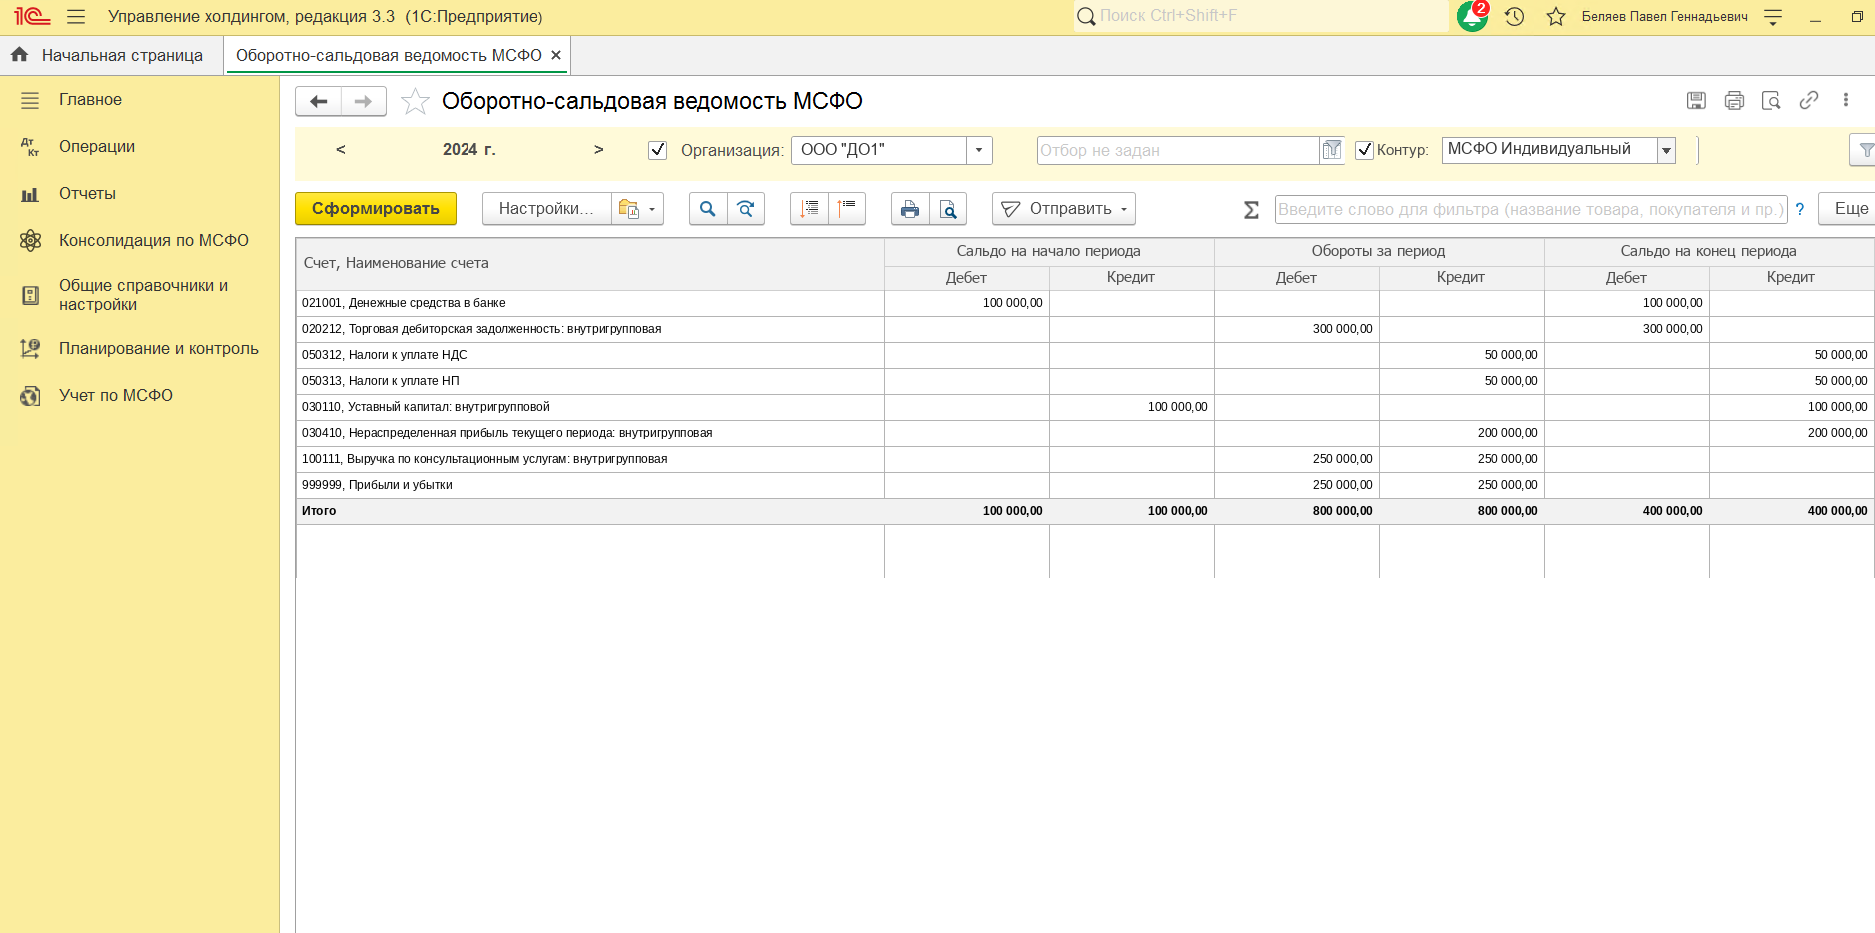
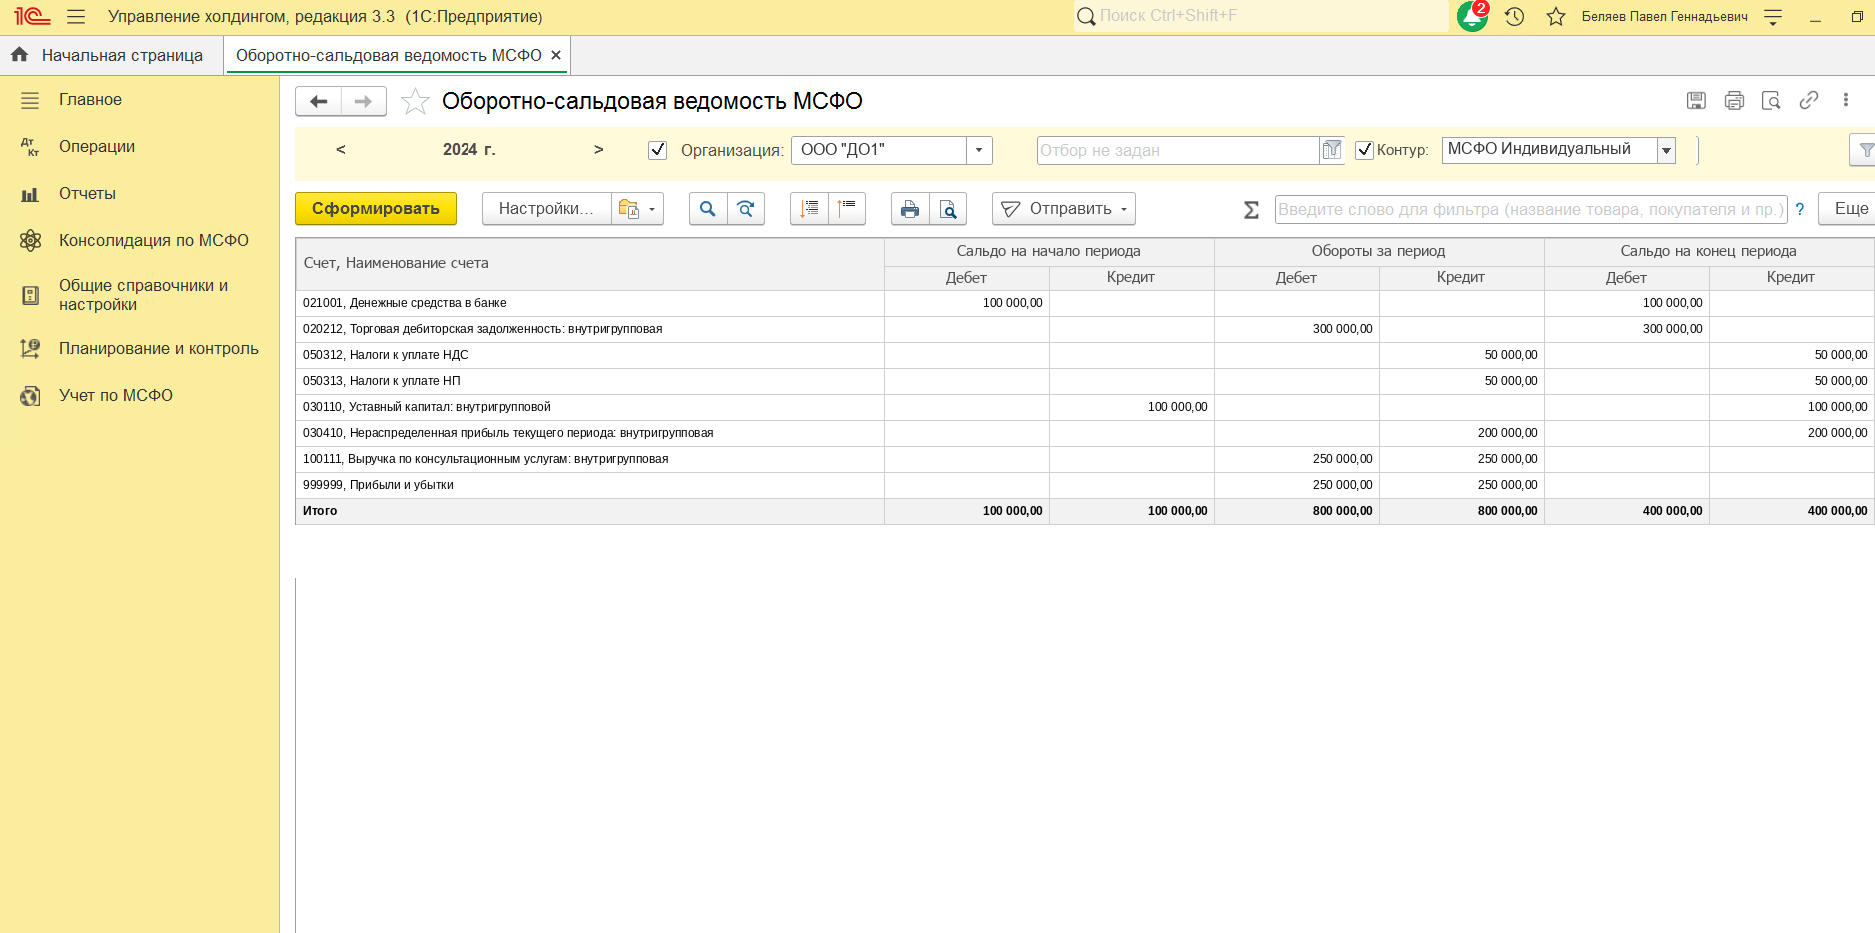
Fix leftover old-table grid below VGO OSV screenshot
Clear the taller original body fully (including the left border stub)
and redraw verticals only through the new shorter table.

Changed region(s): [[0.1547, 0.3108, 0.3712, 0.5595]]

diff --git a/scripts/replace_osv_table_vgo.py b/scripts/replace_osv_table_vgo.py
@@ -8,15 +8,22 @@ from PIL import Image, ImageDraw, ImageFont
 SRC = Path("images/OSV_MSFO_OOO_DO1_korr_bez_korp.png")
 OUT = Path("images/OSV_MSFO_OOO_DO1_korr_vgo_bez_korp.png")
 
-COL = [296, 884, 1049, 1214, 1379, 1544, 1709, 1874]
+# Borders from original header (y=289)
+LEFT = 295
+COL_INNER = [884, 1049, 1214, 1379, 1544, 1709]
+RIGHT = 1874
+BORDERS = [LEFT] + COL_INNER + [RIGHT]
+
 HEADER_BOTTOM = 290
 ROW_H = 26
 N_ROWS = 9
+# Original body ends at y=576; wipe fully so no old grid/text remains
 CLEAR_BOTTOM = 577
 
 WHITE = (255, 255, 255)
 BLACK = (0, 0, 0)
-GRID = (180, 180, 180)
+OUTER = (160, 160, 160)
+GRID = (207, 207, 207)
 TOTAL_BG = (242, 242, 242)
 
 ROWS = [
@@ -72,6 +79,12 @@ ROWS = [
 ]
 
 
+def draw_verticals(draw: ImageDraw.ImageDraw, y0: int, y1: int) -> None:
+    draw.line([(LEFT, y0), (LEFT, y1)], fill=OUTER, width=1)
+    for x in COL_INNER + [RIGHT]:
+        draw.line([(x, y0), (x, y1)], fill=GRID, width=1)
+
+
 def main() -> None:
     img = Image.open(SRC).convert("RGB")
     draw = ImageDraw.Draw(img)
@@ -82,30 +95,31 @@ def main() -> None:
         "/usr/share/fonts/truetype/liberation/LiberationSans-Bold.ttf", 12
     )
 
-    left, right = COL[0], COL[-1]
     data_bottom = HEADER_BOTTOM + N_ROWS * ROW_H
 
-    draw.rectangle([left, HEADER_BOTTOM + 1, right, CLEAR_BOTTOM], fill=WHITE)
-    for x in COL:
-        draw.line([(x, HEADER_BOTTOM), (x, CLEAR_BOTTOM)], fill=GRID, width=1)
+    # Wipe old body (text + grid + outer left stub) completely
+    draw.rectangle([LEFT, HEADER_BOTTOM + 1, RIGHT, CLEAR_BOTTOM], fill=WHITE)
 
     for i, row in enumerate(ROWS):
         y0 = HEADER_BOTTOM + i * ROW_H
         y1 = y0 + ROW_H
         use_font = font_b if i == N_ROWS - 1 else font
         if i == N_ROWS - 1:
-            draw.rectangle([left + 1, y0 + 1, right - 1, y1 - 1], fill=TOTAL_BG)
-        draw.line([(left, y1), (right, y1)], fill=GRID, width=1)
+            draw.rectangle([LEFT + 1, y0 + 1, RIGHT - 1, y1 - 1], fill=TOTAL_BG)
 
-        draw.text((COL[0] + 6, y0 + 6), row[0], fill=BLACK, font=use_font)
+        draw.text((LEFT + 8, y0 + 6), row[0], fill=BLACK, font=use_font)
         for c, val in enumerate(row[1:]):
             if not val:
                 continue
-            x2 = COL[c + 2]
+            x2 = BORDERS[c + 2]
             tw = use_font.getlength(val)
             draw.text((x2 - 6 - tw, y0 + 6), val, fill=BLACK, font=use_font)
 
-    draw.line([(left, data_bottom), (right, data_bottom)], fill=GRID, width=1)
+        draw.line([(LEFT, y1), (RIGHT, y1)], fill=GRID, width=1)
+
+    # Verticals last so Итого fill does not erase column borders; stop at data_bottom
+    draw_verticals(draw, HEADER_BOTTOM, data_bottom)
+
     img.save(OUT, "PNG")
     print(f"saved {OUT}")
 
